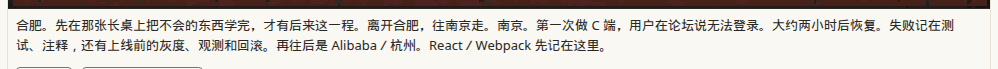
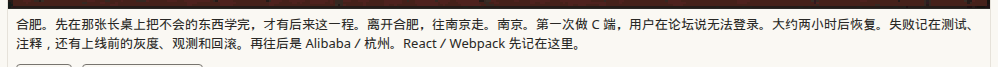
窄槽不再给全角标点加空隙，末行也不留一两个字
换行只插入原文里已有的断点，二字词和产品名保持完整。学习提示在标点后换行，末行带着「写下这页手册。」。

diff --git a/games/career-rpg/web/style.css b/games/career-rpg/web/style.css
@@ -3,9 +3,9 @@
 .text-navigation{font-size:13px;margin-bottom:12px}a{color:var(--accent);text-underline-offset:3px}.script-fallback{display:none}.no-js .script-fallback{display:block}.no-js .game-shell,.no-js .controls{display:none}#chapter-summary{font-size:14px;margin-top:24px}#chapter-summary h2,#game-failure h2{font-size:19px;font-weight:500}#game-failure{padding:20px}#game-failure[hidden]{display:none}.failure-actions{display:flex;align-items:center;flex-wrap:wrap;gap:14px}.game-shell.has-failure{background:var(--bg)}.has-failure #stage,.has-failure #game-failure{position:static;aspect-ratio:auto;overflow:visible}.has-failure #stage>*,.has-failure .hud,.has-failure .interaction{display:none}.has-failure #game-failure{display:block}
 *{box-sizing:border-box}body{margin:0;background:var(--bg);color:var(--text);font:15px/1.8 -apple-system,BlinkMacSystemFont,"Segoe UI",sans-serif}main{max-width:1040px;margin:auto;padding:32px 28px 48px}header{margin-bottom:22px}.eyebrow{color:var(--accent);font:11px/1.6 ui-monospace,monospace;letter-spacing:.08em}h1{margin:8px 0;font-size:27px;font-weight:600;line-height:1.5}#chapter-heading{margin:0 0 6px;font-size:18px;line-height:1.5}header>p:last-child{color:var(--muted);margin:0}.game-shell{position:relative;border:1px solid var(--line);background:#e8dfc8}#stage{position:relative;aspect-ratio:16/9;outline-offset:3px;overflow:hidden}canvas{display:block;width:100%;height:100%;image-rendering:pixelated}#loading{position:absolute;inset:0;margin:0;display:grid;place-content:center;padding:24px;text-align:center;font-size:16px}.hud{position:absolute;left:14px;right:14px;top:12px;display:flex;align-items:center;justify-content:space-between;gap:12px;pointer-events:none}.hud p{margin:0;background:var(--bg);border:1px solid var(--line);padding:5px 10px;font-size:13px}.hud button{pointer-events:auto}.interaction{position:absolute;bottom:12px;left:50%;transform:translateX(-50%);margin:0;background:var(--bg);padding:4px 12px;white-space:nowrap;font-size:13px}.interaction:empty{display:none}button{font:inherit;font-size:13px;color:var(--text);background:var(--bg);border:1px solid var(--muted);border-radius:4px;padding:5px 14px;cursor:pointer}button:hover{color:var(--accent);border-color:var(--accent)}button:disabled{opacity:.5;cursor:default}:focus-visible{outline:2px solid var(--accent);outline-offset:3px}.controls{margin:12px 0 4px;font-size:13px}.note,details{font-size:12px;color:var(--muted)}dialog{color:var(--text);background:var(--bg);border:1px solid var(--muted);border-radius:4px;max-width:520px;width:calc(100% - 40px);padding:24px}dialog::backdrop{background:#29282570}dialog h2{font-size:20px;font-weight:500;margin-top:0}#dialogue{font-size:16px;line-height:1.8;margin:12px 0 22px}.error{color:var(--accent)}@media(max-width:700px){main{padding:22px 16px}h1{font-size:24px}.hud{left:8px;right:8px;top:8px}.hud p{font-size:11px;padding:2px 5px}.hud button{font-size:11px;padding:2px 8px}.interaction{bottom:6px;font-size:11px}.note{font-size:12px}}
  .choices{display:flex;flex-wrap:wrap;gap:10px}.choices button{min-height:38px}#dialogue p{margin:0 0 14px}#save-status{min-height:1.6em;margin:0 0 8px}.two-hours canvas{filter:brightness(.72) saturate(.75)}dialog{max-height:calc(100vh - 48px);overflow:auto}dialog .eyebrow{margin-top:0}
- #stage{isolation:isolate}#stage>canvas{position:absolute;inset:0;z-index:0}#actor-effects,#task-markers{position:absolute;inset:0;pointer-events:none;z-index:1}.speech-bubble{position:absolute;z-index:5;background:var(--bg);border:1px solid var(--text);border-radius:9px;padding:12px 14px;width:320px;max-width:calc(100% - 16px);max-height:calc(100% - 16px);overflow:auto;box-shadow:0 2px 0 #29282520;font-size:13px;line-height:1.6}.speech-bubble[hidden]{display:none}.speech-bubble::after{content:'';position:absolute;left:var(--tail-left,24px);bottom:-7px;width:10px;height:10px;transform:rotate(45deg);background:var(--bg);border-right:1px solid var(--text);border-bottom:1px solid var(--text)}.speech-bubble.below::after{bottom:auto;top:-6px;transform:rotate(225deg)}.speech-bubble #dialogue{font-size:14px;line-height:24px;max-height:160px;overflow:auto;margin:8px 0 12px}.speech-bubble #dialogue p{margin:0 0 10px}.speech-bubble .eyebrow{margin:0;line-height:1.5}.speech-bubble .choices{gap:7px}.speech-bubble button{font-size:12px;min-height:32px;padding:3px 9px}#portrait{float:left;width:48px;height:48px;margin:0 10px 5px 0;image-rendering:pixelated}#choices{clear:both}.actor-label{position:absolute;transform:translate(-50%,-100%);font-size:10px;line-height:1.4;padding:1px 4px;background:#faf8f3dd;border-radius:2px;white-space:nowrap}.emotion-badge{position:absolute;transform:translate(-50%,-100%);width:32px;height:32px;image-rendering:pixelated;border:1px solid var(--line);border-radius:50%;background:var(--bg)}.task-marker{position:absolute;transform:translate(-50%,-100%);color:#ffd52a;font:bold 25px/1 ui-monospace,monospace;text-shadow:-1px -1px 0 #6b4a32,1px 1px 0 #6b4a32,-1px 1px 0 #6b4a32,1px -1px 0 #6b4a32}.hud{z-index:3}.interaction{z-index:3}#system-dialog #dialogue{max-height:45vh;overflow:auto}#system-dialog #portrait{display:none}
+ #stage{isolation:isolate}#stage>canvas{position:absolute;inset:0;z-index:0}#actor-effects,#task-markers{position:absolute;inset:0;pointer-events:none;z-index:1}.speech-bubble{position:absolute;z-index:5;background:var(--bg);border:1px solid var(--text);border-radius:9px;padding:12px 14px;width:320px;max-width:calc(100% - 16px);max-height:calc(100% - 16px);overflow:auto;box-shadow:0 2px 0 #29282520;font-size:13px;line-height:1.6}.speech-bubble[hidden]{display:none}.speech-bubble::after{content:'';position:absolute;left:var(--tail-left,24px);bottom:-7px;width:10px;height:10px;transform:rotate(45deg);background:var(--bg);border-right:1px solid var(--text);border-bottom:1px solid var(--text)}.speech-bubble.below::after{bottom:auto;top:-6px;transform:rotate(225deg)}.speech-bubble #dialogue{font-size:14px;line-height:1.65;max-height:160px;overflow:auto;margin:8px 0 12px}.speech-bubble #dialogue p{margin:0 0 10px}.speech-bubble .eyebrow{margin:0;line-height:1.5}.speech-bubble .choices{gap:7px}.speech-bubble button{font-size:12px;min-height:32px;padding:3px 9px}#portrait{float:left;width:48px;height:48px;margin:0 10px 5px 0;image-rendering:pixelated}#choices{clear:both}.actor-label{position:absolute;transform:translate(-50%,-100%);font-size:10px;line-height:1.4;padding:1px 4px;background:#faf8f3dd;border-radius:2px;white-space:nowrap}.emotion-badge{position:absolute;transform:translate(-50%,-100%);width:32px;height:32px;image-rendering:pixelated;border:1px solid var(--line);border-radius:50%;background:var(--bg)}.task-marker{position:absolute;transform:translate(-50%,-100%);color:#ffd52a;font:bold 25px/1 ui-monospace,monospace;text-shadow:-1px -1px 0 #6b4a32,1px 1px 0 #6b4a32,-1px 1px 0 #6b4a32,1px -1px 0 #6b4a32}.hud{z-index:3}.interaction{z-index:3}#system-dialog #dialogue{max-height:45vh;overflow:auto}#system-dialog #portrait{display:none}
  .speech-bubble{overflow:visible}
  .reading-hint{clear:both;font-size:11px;line-height:1.4;color:var(--muted);margin:4px 0 7px}.speech-bubble{display:flex;flex-direction:column}.speech-bubble #dialogue-content{display:grid;grid-template-columns:48px 1fr;grid-template-rows:auto minmax(28px,1fr) auto minmax(42px,auto);gap:6px;min-height:0}.speech-bubble #portrait{float:none;grid-column:1;grid-row:1;margin:0}.speech-bubble #speaker{grid-column:2;grid-row:1;align-self:center}.speech-bubble #dialogue{grid-column:1 / -1;grid-row:2;min-height:0;margin:0;overscroll-behavior:contain}.speech-bubble #reading-hint{grid-column:1 / -1;grid-row:3;margin:0}.speech-bubble #choices{grid-column:1 / -1;grid-row:4;min-height:0;overflow:auto;padding:5px;overscroll-behavior:contain}.speech-bubble #dialogue-content:has(#skill-slots:not([hidden])){grid-template-rows:auto minmax(28px,1fr) auto auto minmax(42px,auto)}.speech-bubble #dialogue-content:has(#skill-slots:not([hidden])) #skill-slots{grid-column:1 / -1;grid-row:3}.speech-bubble #dialogue-content:has(#skill-slots:not([hidden])) #reading-hint{grid-row:4}.speech-bubble #dialogue-content:has(#skill-slots:not([hidden])) #choices{grid-row:5}#dialogue{overscroll-behavior:contain;outline-offset:1px}@media(max-width:700px){.speech-bubble{padding:8px 14px}.speech-bubble #dialogue-content{grid-template-columns:32px 1fr;gap:4px}.speech-bubble #portrait{width:32px;height:32px}}
  .choices button:focus{outline:2px solid var(--accent);outline-offset:3px;border-color:var(--accent)}.choices button:disabled:hover{color:var(--text);border-color:var(--muted)}
  .task-marker{font-size:30px;font-weight:900;color:#ffdc2d;-webkit-text-stroke:2px #292825;paint-order:stroke fill;text-shadow:none;animation:task-float 1.4s ease-in-out infinite;will-change:transform}img.task-marker{display:block;object-fit:fill;image-rendering:pixelated;font-size:0}#object-card{position:absolute;z-index:4;right:8px;bottom:8px;margin:0;width:min(192px,42%);background:var(--bg);border:1px solid var(--text);padding:6px}#object-card[hidden]{display:none}#object-card img{width:100%;height:auto;image-rendering:pixelated;display:block}#object-card figcaption{font-size:11px;line-height:1.4}#transition-caption{position:absolute;z-index:6;left:50%;top:16%;transform:translateX(-50%);margin:0;background:#faf8f3;border:1px solid #292825;padding:8px 12px;font-size:14px}#transition-caption[hidden]{display:none}@keyframes task-float{0%,100%{transform:translate(-50%,-100%) translateY(0)}50%{transform:translate(-50%,-100%) translateY(-6px)}}@media(prefers-reduced-motion:reduce){.task-marker{animation:none;transform:translate(-50%,-100%)}}
-#skill-glints{position:absolute;inset:0;z-index:2;width:100%;height:100%;pointer-events:none;image-rendering:pixelated}#skill-slots{display:grid;gap:6px;margin:0;align-items:start}#skill-slots[hidden]{display:none}#skill-slots figure{margin:0;text-align:center;min-width:0}#skill-slots img{width:28px;height:28px;image-rendering:pixelated;display:block;margin:0 auto}#skill-slots figcaption{font-size:10px;line-height:14px}.narrow-line{white-space:nowrap}.narrow-gap{position:absolute;width:0;height:0;overflow:hidden}#skill-slots figcaption,.speech-bubble #dialogue p,#journey-copy{position:relative}#skill-award-icon{width:28px;height:28px;image-rendering:pixelated;display:block;margin:0 0 6px}#journey-map{position:absolute;inset:0;z-index:6;display:flex;flex-direction:column;background:#faf8f3}#journey-map[hidden]{display:none}#journey-slogan{flex:none;margin:0;padding:4px 8px;text-align:center;font:600 16px/1.35 ui-monospace,monospace;color:#292825;background:#faf8f3;border-bottom:1px solid #292825}#journey-stage{position:relative;flex:1;min-height:0}#journey-canvas{width:100%;height:100%;image-rendering:pixelated;display:block}#journey-copy{flex:none;margin:0;background:#faf8f3;border-top:1px solid #292825;padding:6px 8px;font-size:13px;line-height:20px}#journey-copy[hidden]{display:none}#journey-choices{flex:none;padding:6px 8px 8px}#transition-caption{white-space:pre-line}.pixel-glint{box-shadow:0 0 0 2px #f4e35a, 4px -3px 0 #fffaf0, -5px 2px 0 #f4e35a}.game-shell:has(#journey-map:not([hidden])) .hud,.game-shell:has(#journey-map:not([hidden])) .interaction{visibility:hidden}
+#skill-glints{position:absolute;inset:0;z-index:2;width:100%;height:100%;pointer-events:none;image-rendering:pixelated}#skill-slots{display:grid;gap:6px;margin:0;align-items:start}#skill-slots[hidden]{display:none}#skill-slots figure{margin:0;text-align:center;min-width:0}#skill-slots img{width:28px;height:28px;image-rendering:pixelated;display:block;margin:0 auto}#skill-slots figcaption{font-size:10px;line-height:1.35}#skill-award-icon{width:28px;height:28px;image-rendering:pixelated;display:block;margin:0 0 6px}#journey-map{position:absolute;inset:0;z-index:6;display:flex;flex-direction:column;background:#faf8f3}#journey-map[hidden]{display:none}#journey-slogan{flex:none;margin:0;padding:4px 8px;text-align:center;font:600 16px/1.35 ui-monospace,monospace;color:#292825;background:#faf8f3;border-bottom:1px solid #292825}#journey-stage{position:relative;flex:1;min-height:0}#journey-canvas{width:100%;height:100%;image-rendering:pixelated;display:block}#journey-copy{flex:none;margin:0;background:#faf8f3;border-top:1px solid #292825;padding:6px 8px;font-size:13px;line-height:1.45}#journey-copy[hidden]{display:none}#journey-choices{flex:none;padding:6px 8px 8px}#transition-caption{white-space:pre-line}.pixel-glint{box-shadow:0 0 0 2px #f4e35a, 4px -3px 0 #fffaf0, -5px 2px 0 #f4e35a}.game-shell:has(#journey-map:not([hidden])) .hud,.game-shell:has(#journey-map:not([hidden])) .interaction{visibility:hidden}

diff --git a/games/career-rpg/handoff.md b/games/career-rpg/handoff.md
@@ -2,7 +2,7 @@
 
 ## 当前恢复点（2026-11-05，窄槽换行）
 
-手册技能名、对话框、获得技能和旅程底部说明共用 `web/narrow-wrap.mjs`。中文按字断，英文单词和产品名不断开，收口标点不放行首。技能名槽移出对话滚动区，行高用整数像素。走路、坐姿、地图地名字牌和音效没动。证据在 `web/review/narrow-wrap/`。
+手册技能名、对话框、获得技能和旅程底部说明共用 `web/narrow-wrap.mjs`。中文按字断，顿号两边的二字词保持完整，英文单词和产品名不断开，不另加空格。技能名槽移出对话滚动区。走路、坐姿、地图地名字牌和音效没动。证据在 `web/review/narrow-wrap/`。
 
 ## 当前恢复点（2026-11-05，工位坐姿）
 
